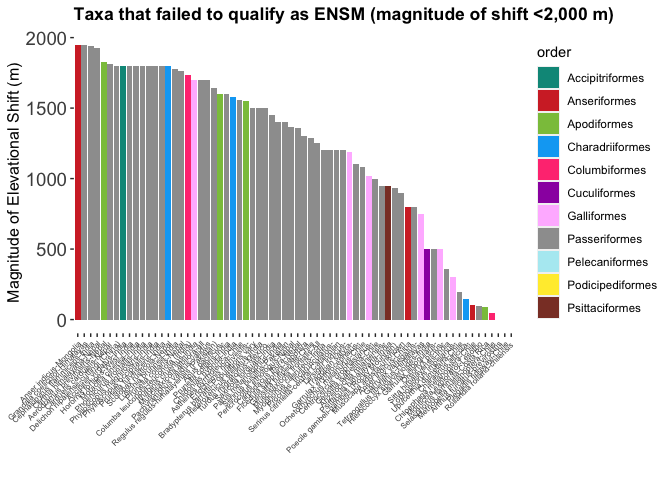
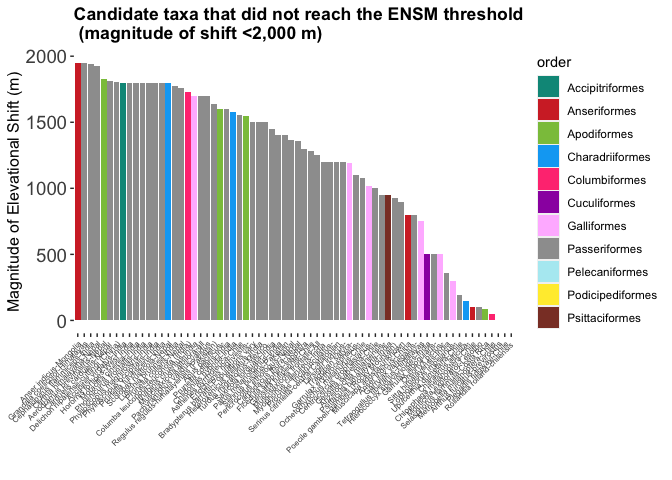
Update 12/6/20

diff --git a/1_r_scripts/ENSM_magnitude_of_shift_barplots.md b/1_r_scripts/ENSM_magnitude_of_shift_barplots.md
@@ -1,13 +1,13 @@
-# Script associated with data wrangling, plots, and figures for Williamson & Witt, ‘Elevational niche-shift migration’. This script inclues:
+# Script associated with data wrangling, plots, and figures for Williamson & Witt, ‘Elevational niche-shift migration’. This script includes:
 
-*Data wrangling used for basic ENSM calculations *Using data from Table
-S1 (complete database of ENSM taxa) to generate magnitude of shift bar
-plots (Figs S4-S5) *Using data from Table S2 (list of taxa that failed
-to qualify as ENSM) to generate magnitude of shift bar plots (Figure S7)
-*Code used to make Figure 4, seasonal elevational range and magnitudes
-of shift for all complete and partial ENSM taxa. Some quick calculations
-to generate magnitude of elevation shift barplots for the ensmlement
-(Figs S4-S5) of
+*Data wrangling used for basic ENSM summary calculations *Using data
+from Table S1 (complete database of ENSM taxa) to generate magnitude of
+shift bar plots (Figs S4-S5) *Using data from Table S2 (list of taxa
+that failed to qualify as ENSM) to generate magnitude of shift bar plots
+(Figure S7) *Code used to make Figure 4, seasonal elevational range and
+magnitudes of shift for all complete and partial ENSM taxa. Some quick
+calculations to generate magnitude of elevation shift barplots for the
+ensmlement (Figs S4-S5) of
 
 -----
 
@@ -153,7 +153,7 @@ ensm[ensm$sciname=="Zoothera dauma" & ensm$ensm_pop=="India",][23] <- "Zoothera 
 ensm[ensm$sciname=="Zoothera dauma" & ensm$ensm_pop=="Nepal",][23] <- "Zoothera dauma (Nepal)"
 ```
 
-# Clean, filter, wrangle non-ENSM taxa data (Table S2; added for reference at request of AE)
+# Clean, filter, wrangle non-ENSM taxa data (Table S2; added during revision)
 
 ``` r
 # Combine genus and species columns into a 'sciname' column 
@@ -809,7 +809,7 @@ p3 <- ggplot(data=ne, aes(x=reorder(unique_name, -partial_ensm_magnitude), y=par
             panel.grid.major=element_blank(), 
             panel.grid.minor=element_blank(),
             panel.background = element_blank()) +
-      labs(title="Taxa that failed to qualify as ENSM (magnitude of shift <2,000 m)",x="", 
+      labs(title="Candidate taxa that did not reach the ENSM threshold \n (magnitude of shift <2,000 m)",x="", 
            y = "Magnitude of Elevational Shift (m)") +
       theme(plot.title = element_text(face="bold")) + # This makes panel header bold 
        # This is good for labeling figure panels! Avoids having to manually toy w/ hjust and vjust
@@ -1158,6 +1158,9 @@ add triangle symbols in Illustrator.
 
 # Figure 4 (horizontal; not in MS): Plot of seasonal elevational distributions and magnitudes of shift for ENSM taxa.
 
+Aesthetics unpolished because I abandoned this layout in favor of
+better-looking vertical alignment.
+
 ``` r
 # Complete and partial ENSM taxa combined 
 Fig4_horizontal <- ggplot(data=ensm, aes(x=unique_name, ymin=LLL, ymax=ULL)) + 
@@ -1203,7 +1206,7 @@ ggsave(Fig4_horizontal, filename="/Users/Jessie/Dropbox (MSBbirds)/Rdirectory/EN
 # Figure 4 two-panel alternative (not in manuscript) - plot of seasonal elevational distributions and magnitudes of elev shift.
 
 This plot has older colors and symbols because I didn’t end up using it.
-Aesthetics would need to be tweaked if I did want to use it in the text.
+Aesthetics need lots of tweaking.
 
 FYI, Manually add arrow symbol to plot: p + annotate(“segment”, x = 2,
 xend = 4, y = 15, yend = 25, colour = “pink”, size=3, alpha=0.6,
